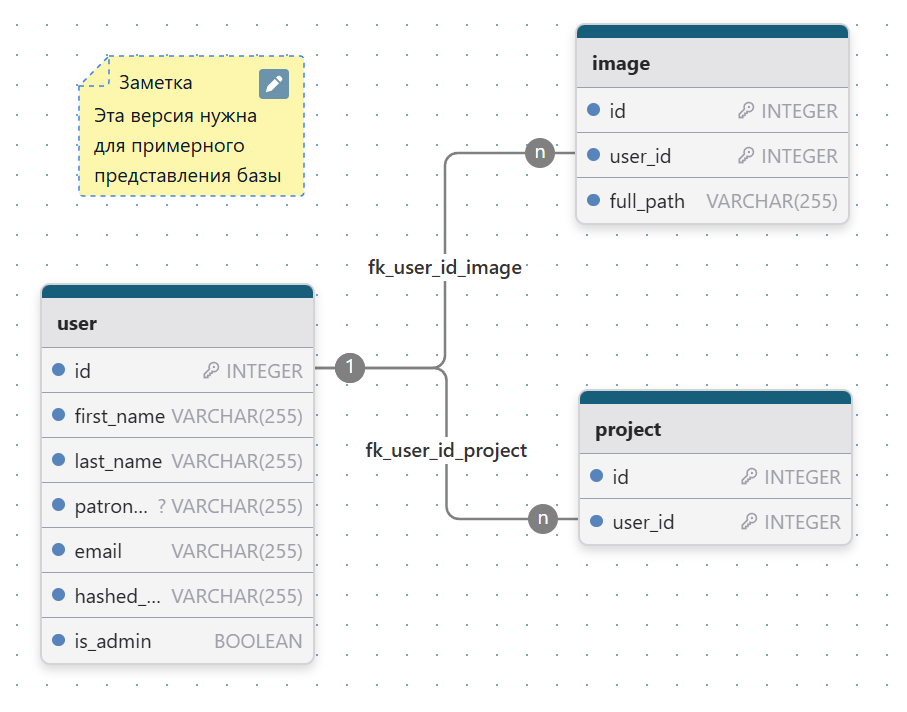
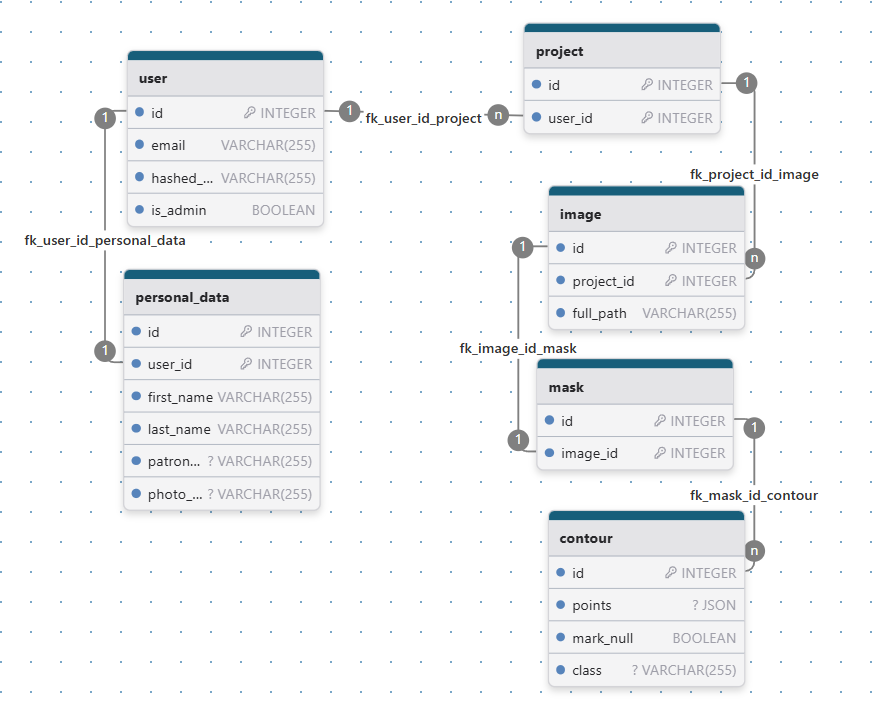
Изменена база данных

Changed region(s): [[0.0308, 0.0309, 0.9533, 0.9902]]

diff --git a/app/db.py b/app/db.py
@@ -27,42 +27,66 @@ SessionLocal = sessionmaker(autocommit=False, autoflush=False, bind=engine)
 
 class Base(DeclarativeBase): pass
  
-
-
 class User(Base):
     __tablename__ = "users"
  
     id = Column(Integer, primary_key=True, index=True)
-    
-    first_name = Column(String(255), nullable=False) # Имя
-    last_name = Column(String(255), nullable=False) # Фамилия
-    patronymic = Column(String(255), nullable=True) # Отчество
-
     email = Column(String(255), nullable=False, unique=True)
     hashed_password = Column(String(255), nullable=False)
     is_admin = Column(Boolean, nullable=False)
 
-    images = relationship("Image", back_populates="user")
-    projects = relationship("Project", back_populates="user")
+    projects = relationship("Project", back_populates="users")
+    personal_data = relationship("PersonalData", back_populates="users")
 
-
-
-class Image(Base):
-    __tablename__ = "images"
+class PersonalData(Base):
+    __tablename__ = "personal_data"
 
     id = Column(Integer, primary_key=True, index=True)
-    full_path = Column(String(255), nullable=False, unique=True)
-    user_id = Column(ForeignKey("users.id")) 
-    user = relationship("User", back_populates="images")
+    user_id = Column(ForeignKey("users.id"), unique=True)
+    first_name = Column(String(255), nullable=False) # Имя
+    last_name = Column(String(255), nullable=False) # Фамилия
+    patronymic = Column(String(255), nullable=True) # Отчество
+    photo_path = Column(String(255), nullable=True, unique=True)
 
+    users = relationship("User", back_populates="personal_data")
 
 class Project(Base):
     __tablename__ = "projects"
 
     id = Column(Integer, primary_key=True, index=True)
-
     user_id = Column(ForeignKey("users.id"))
-    user = relationship("User", back_populates="projects")
+
+    users = relationship("User", back_populates="projects")
+    images = relationship("Image", back_populates="projects")
+
+class Image(Base):
+    __tablename__ = "images"
+
+    id = Column(Integer, primary_key=True, index=True)
+    project_id = Column(ForeignKey("projects.id"))
+    full_path = Column(String(255), nullable=False, unique=True)
+    
+    projects = relationship("Project", back_populates="images")
+    mask = relationship("Mask", back_populates="images")
+
+class Mask(Base):
+    __tablename__ = "mask"
+
+    id = Column(Integer, primary_key=True, index=True)
+    image_id = Column(ForeignKey("images.id"), unique=True)
+
+    images = relationship("Image", back_populates="mask")
+    contour = relationship("Contour", back_populates="mask")
+
+class Contour(Base):
+    __tablename__ = "contour"
+
+    id = Column(Integer, primary_key=True, index=True)
+    mask_id = Column(ForeignKey("mask.id"))
+
+    mask = relationship("Mask", back_populates="contour")
+
+
 
 
 Base.metadata.create_all(bind=engine)

diff --git a/app/image.py b/app/image.py
@@ -1,0 +1,61 @@
+from fastapi import APIRouter, Depends, HTTPException, status, File, UploadFile
+from pydantic import BaseModel
+from fastapi_jwt_auth import AuthJWT
+from sqlalchemy.orm import Session
+from app.db import get_db, User as _User, Image as _Image
+from fastapi.responses import FileResponse
+from datetime import datetime
+import os
+
+image_route = APIRouter()
+
+
+
+@image_route.post('/upload-image')
+async def upload_image(image: UploadFile = File(...), Authorize:AuthJWT=Depends(), db: Session = Depends(get_db)):
+    # try:
+    #     Authorize.jwt_required()
+    # except Exception as e:
+    #     raise HTTPException(status_code=status.HTTP_401_UNAUTHORIZED,detail="Invalid token")
+
+    # current_user=Authorize.get_jwt_identity()
+    current_dateTime = datetime.now()
+    full_path = f"/images/{current_dateTime.year}/{current_dateTime.month}/{current_dateTime.day}/{current_dateTime.hour}/{current_dateTime.minute}/{current_dateTime.second}/"
+    
+    user_id = 1
+
+    try:
+        if not os.path.exists(os.getcwd() + full_path):
+            os.makedirs(os.getcwd() + full_path)
+
+    except Exception as e:
+        print(e)
+    
+    full_path = full_path + f"{current_dateTime.microsecond}." + image.filename.split(".")[-1]
+    with open(os.getcwd() + full_path,'wb+') as f:
+        f.write(image.file.read())
+        f.close()
+
+    db_image = _Image(full_path=full_path, user_id=user_id)
+    db.add(db_image)
+    db.commit()
+    db.refresh(db_image)
+
+    db_image = db.query(_Image).filter(_Image.full_path == full_path).first()
+    return {
+        "full_path": db_image.full_path,
+        "imgage_id": db_image.id
+        }
+
+
+# @image_route.post('/image-by-path')
+# async def get_image(full_path: str, Authorize:AuthJWT=Depends(), db: Session = Depends(get_db)):
+#     try:
+#         Authorize.jwt_required()
+#     except Exception as e:
+#         raise HTTPException(status_code=status.HTTP_401_UNAUTHORIZED,detail="Invalid token")
+
+#     current_user=Authorize.get_jwt_identity()
+
+#     db.query(_Image).filter(_Image.user_id == current_user).filter(_Image.full_path == full_path).first()
+#     return FileResponse()

diff --git a/app/auth.py b/app/auth.py
@@ -3,7 +3,7 @@ from fastapi import APIRouter, Request, Depends, HTTPException, status
 from pydantic import BaseModel, Field
 from typing import Optional
 
-from app.db import get_db, User as _User
+from app.db import get_db, User as _User, PersonalData as _PersonalData
 from functools import wraps
 
 
@@ -76,11 +76,14 @@ async def sign_up(user: RegisterSchema, db: Session = Depends(get_db)):
         raise HTTPException(status_code=401, detail="User already registered")
 
     hashed_password = get_password_hash(user.password)
-    db_user = _User(first_name=user.first_name, last_name=user.last_name, patronymic=user.patronymic, email=user.email, hashed_password=hashed_password, is_admin=False)
-    db.add(db_user)
+    
+    db_user = _User(email=user.email, hashed_password=hashed_password, is_admin=False)
+    personal_data = _PersonalData(first_name=user.first_name, last_name=user.last_name, patronymic=user.patronymic, users=db_user)
+    
+    db.add(personal_data)
     db.commit()
-    db.refresh(db_user)
-    return db_user
+    db.refresh(personal_data)
+    return personal_data
 
 
 @auth.post("/login")

diff --git a/app/user.py b/app/user.py
@@ -2,7 +2,7 @@ from fastapi import APIRouter, Depends, HTTPException, status
 from pydantic import BaseModel
 from fastapi_jwt_auth import AuthJWT
 from sqlalchemy.orm import Session
-from app.db import get_db, User as _User
+from app.db import get_db, User as _User, Image as _Image
 
 user_route = APIRouter()
 
@@ -18,6 +18,7 @@ async def get_user_info(Authorize:AuthJWT=Depends(), db: Session = Depends(get_d
     current_user=Authorize.get_jwt_identity()
 
     db_user = db.query(_User).filter(_User.id == current_user).first()
+    
     return {
         "first_name": db_user.first_name,
         "last_name": db_user.last_name,

diff --git a/app/app.py b/app/app.py
@@ -3,6 +3,7 @@ from fastapi.middleware.cors import CORSMiddleware
 
 from app.auth import auth
 from app.user import user_route
+from app.image import image_route
 
 
 app = FastAPI()
@@ -19,3 +20,4 @@ app.add_middleware(
 
 app.include_router(auth)
 app.include_router(user_route)
+app.include_router(image_route)
